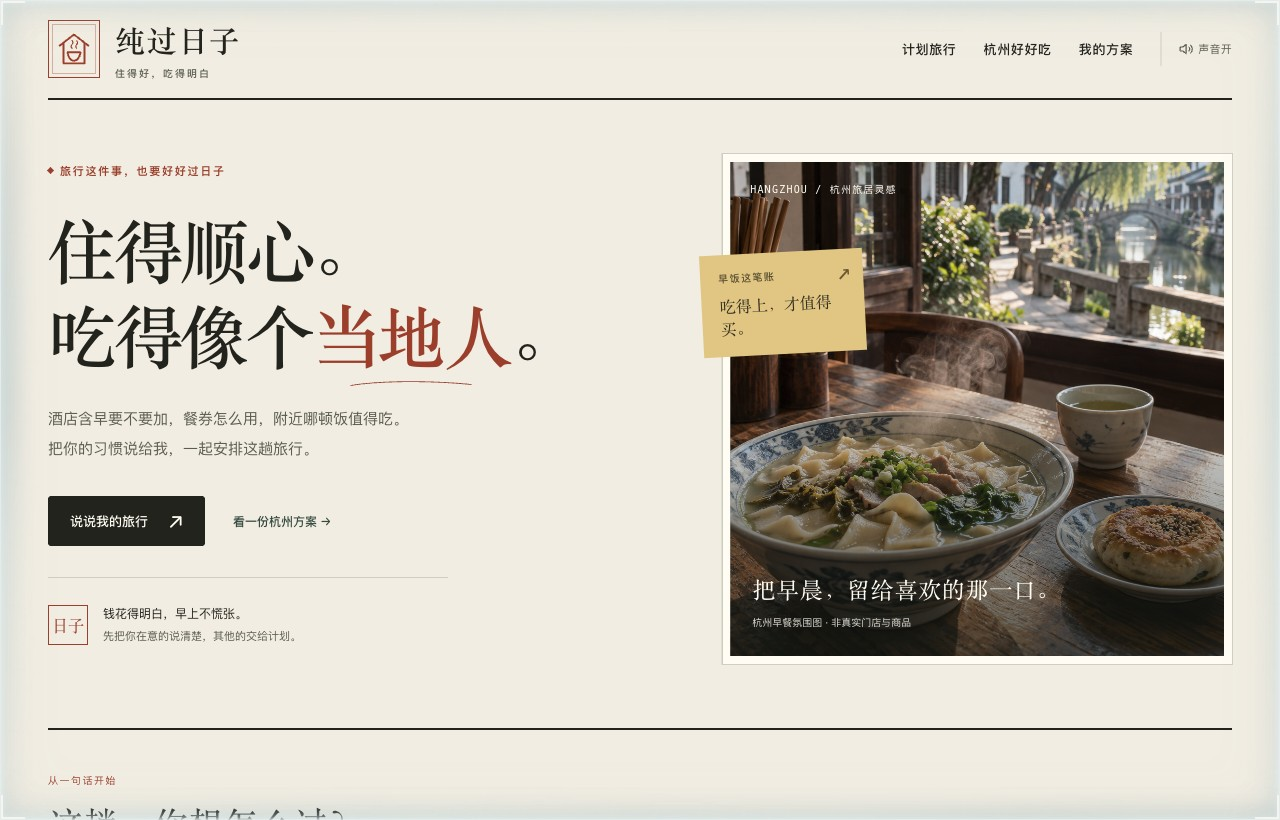
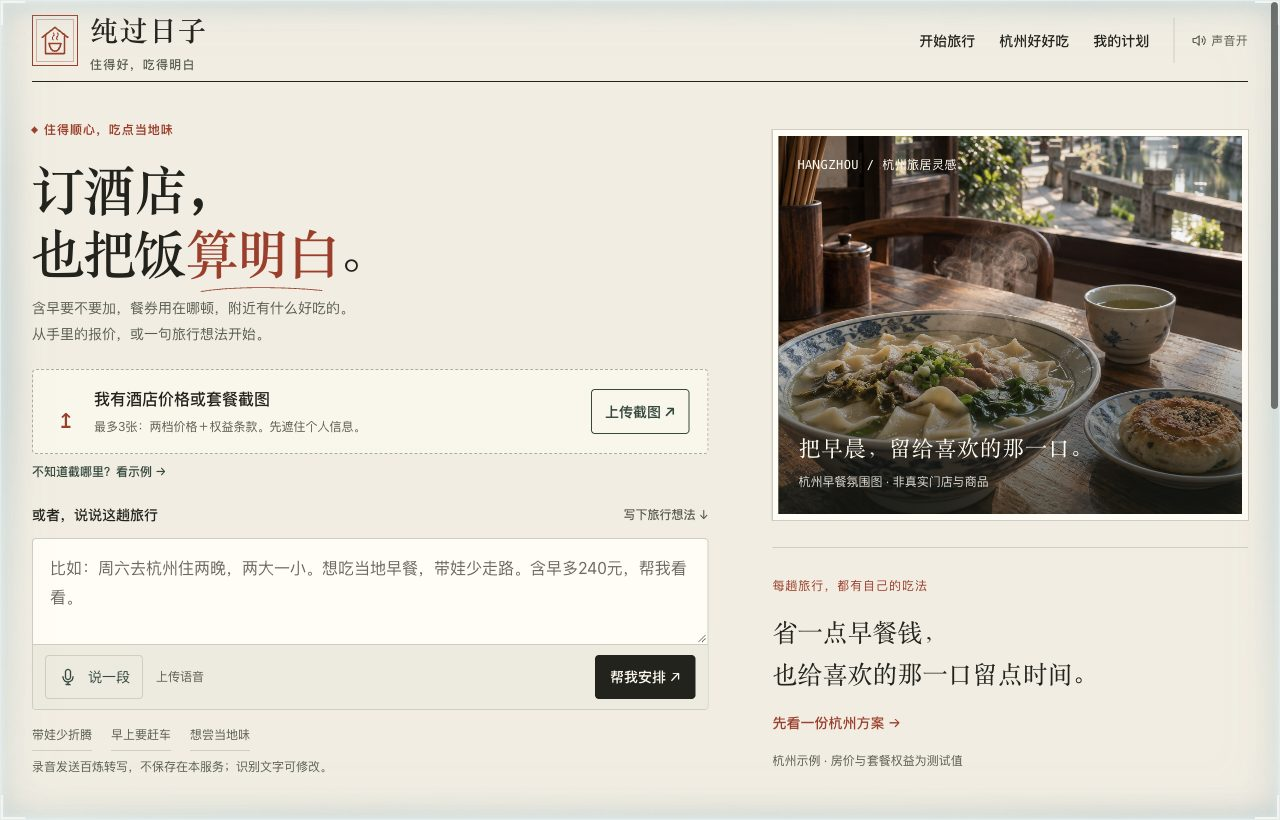
docs: 更新公网首页截图与公开文件核查记录

diff --git a/docs/privacy-check.md b/docs/privacy-check.md
@@ -28,3 +28,9 @@
 ## v1.1.0 增补
 
 新截图和视频末段为2026-10-13公网应用的实际运行画面，使用示例房价、公开酒店与门店，合成讲解；没有个人订单、录音或控制台信息。分享卡在浏览器生成，不发送到服务端，需用户自行保存或分享。新增公开文件发布前扫描密钥、私钥标记、私人路径和常见凭据，检查结果见本次交付记录。
+
+## 2026-10-23 报价修复与输入流程增补
+
+- v1.1.3源码从审核提交单独导出，67个跟踪文件未命中本次密钥、AccessKey、GitHub Token、私钥或参赛者本机路径扫描模式，未包含`.env`。
+- 新截图核对仅在浏览器内保留本次图片预览；用户删除或更换图片时释放预览，服务端不持久保存原图。测试使用公开商品页及本地契约夹具，不包含私人订单。
+- v1.2.0首页截图来自公开体验地址的实际页面，不包含账号、订单或控制台；界面与报价代码继续采用相同公开检查。完整三餐与缓存的新开发文件尚未包含在此版本包内。
